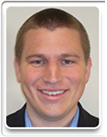
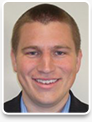
Testimonial images

diff --git a/index.html b/index.html
@@ -338,10 +338,10 @@
             <div style="width:100%;height:30px ;text-align:center" id="homeSplittingLine4"></div>
 
             <div class="last bit-gray bit-armata">
-                <div style="display:inline;width:100px;height:138px"><img src='images/testimonials/stephan.png'></div>
+                <div style="display:inline;width:100px;height:138px"><img src='images/testimonials/stefan.png'></div>
                 <div style="display:inline-block;width:3em"></div>
                 <div style="display:inline-block;left:100em;width:67em">
-                    <div><h4 style="letter-spacing:1px">Stephan Thomas<font color="#c2c2c2"> | CTO of Ripple</font>
+                    <div><h4 style="letter-spacing:1px">Stefan Thomas<font color="#c2c2c2"> | CTO of Ripple</font>
                     </h4></div>
                     <div class="last bit-navy bit-roboto" style="letter-spacing:0"><h4>"Navigating the space of math-based currencies can be daunting. I think there is a huge opportunity for Bitblu to improve transparency in this sector and make it easier for investors to manage their cryptocurrency portfolio!"</h4></div>
                 </div>
